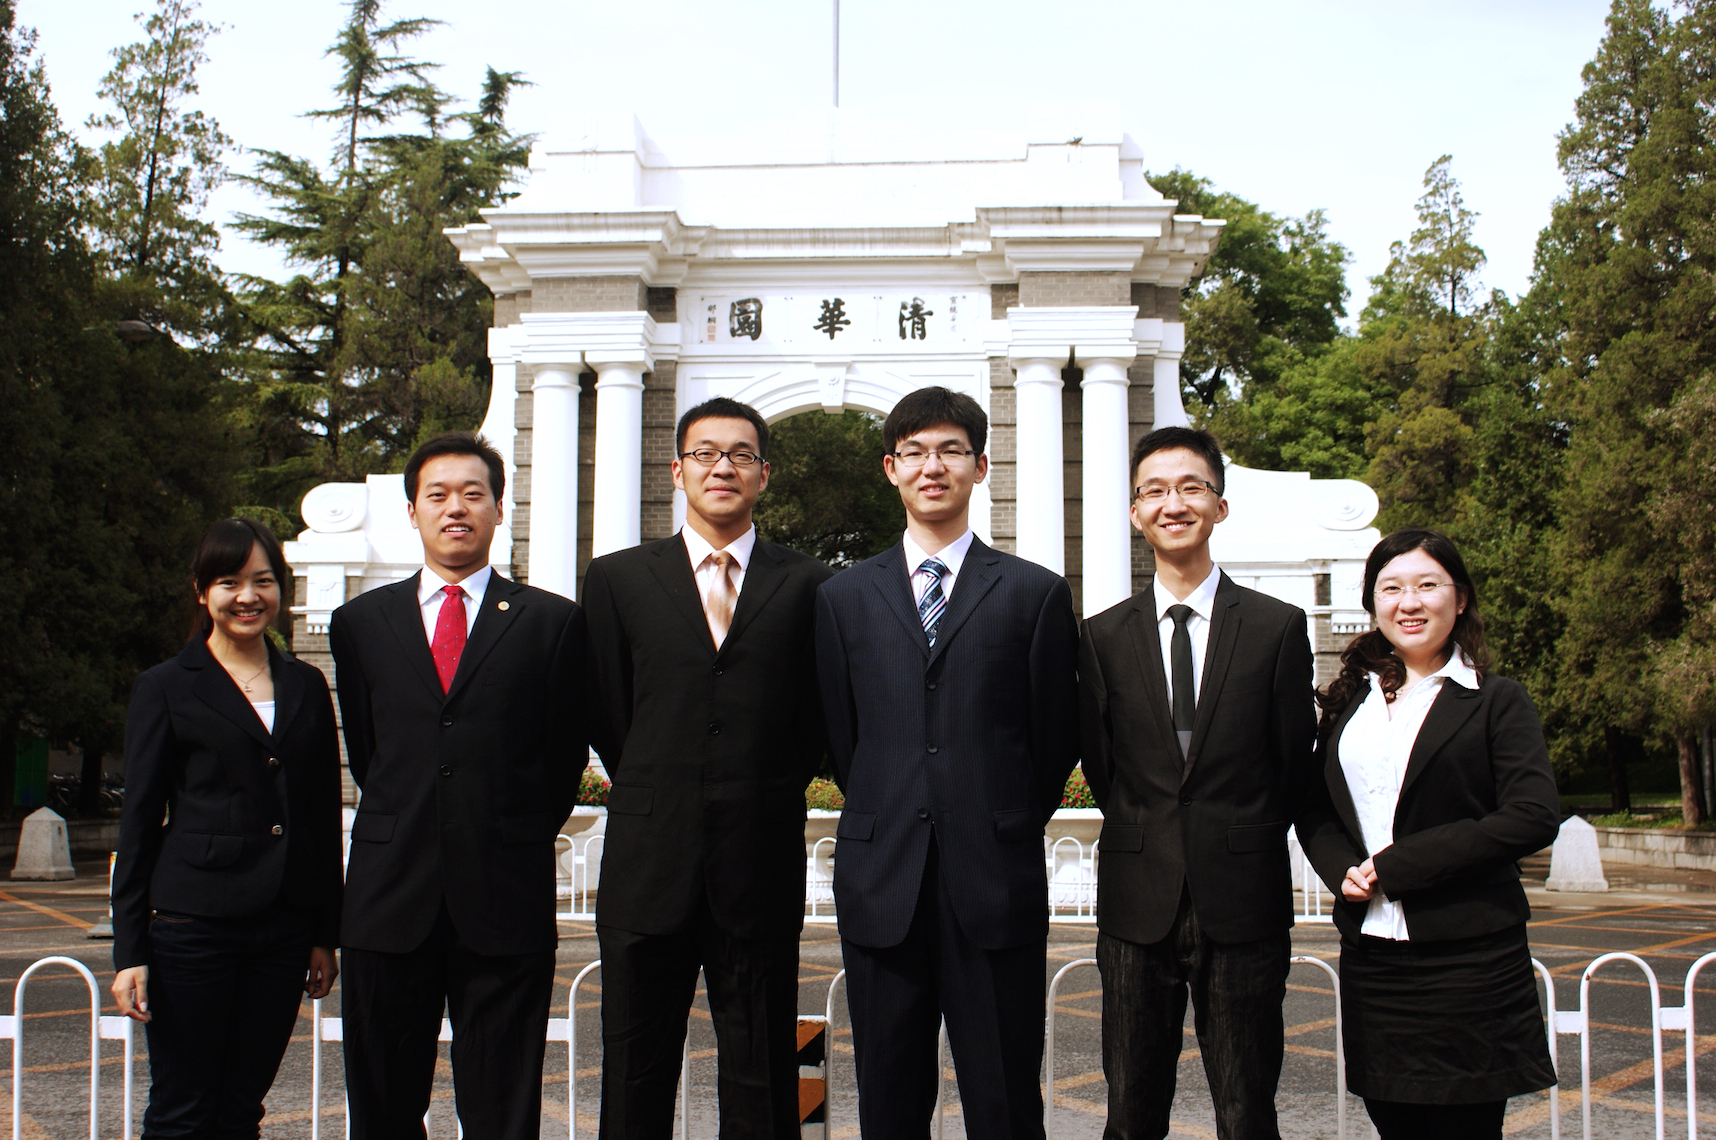
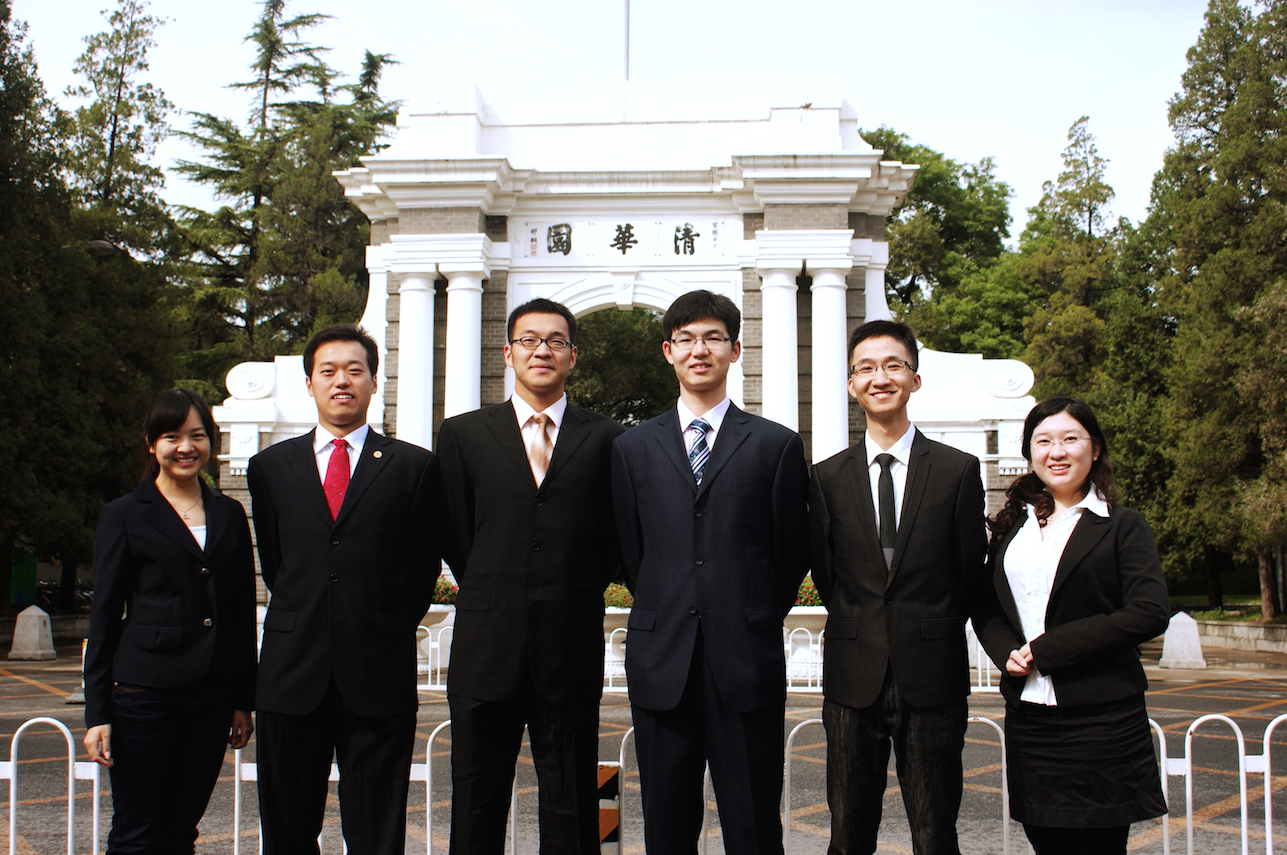
shrink pictures

diff --git a/_includes/szhang_header.html b/_includes/szhang_header.html
@@ -9,6 +9,15 @@
         <link rel="stylesheet" href="/stylesheets/github-markdown.css">
         <link rel="stylesheet" href="/static/minimal/stylesheets/pygment_trac.css">
         <meta name="viewport" content="width=device-width, initial-scale=1, user-scalable=no">
+        {% if page.date == Nil or page.katex or page.math %}
+        <script src="https://cdnjs.cloudflare.com/ajax/libs/jquery/3.0.0-alpha1/jquery.min.js"></script>
+        {% endif %}
+        {% if page.katex or page.math %}
+        <link rel="stylesheet" href="https://cdnjs.cloudflare.com/ajax/libs/KaTeX/0.5.1/katex.min.css">
+        <script src="https://cdnjs.cloudflare.com/ajax/libs/KaTeX/0.5.1/katex.min.js"></script>
+        <script src="https://cdnjs.cloudflare.com/ajax/libs/KaTeX/0.5.1/contrib/auto-render.min.js"></script>
+        </script>
+        {% endif %}
         {% if page.mathjax %}
         <script type="text/x-mathjax-config">
           MathJax.Hub.Config({
@@ -26,6 +35,7 @@
         </script>
         <script type="text/javascript" src="http://cdn.mathjax.org/mathjax/latest/MathJax.js?config=TeX-AMS-MML_HTMLorMML"></script>
         {% endif %}
+        <link href="//maxcdn.bootstrapcdn.com/font-awesome/4.4.0/css/font-awesome.min.css" rel="stylesheet">
         <!--[if lt IE 9]>
         <script src="//html5shiv.googlecode.com/svn/trunk/html5.js"></script>
         <![endif]-->

diff --git a/_includes/szhang_foot.html b/_includes/szhang_foot.html
@@ -15,5 +15,34 @@
 		</script>
 		<noscript>Please enable JavaScript to view the <a href="http://disqus.com/?ref_noscript">comments powered by Disqus.</a></noscript>
     {% endif %}
+        {% if page.katex or page.math %}
+        <script type="text/javascript">
+          /*renderMathInElement(
+              document.body,
+              {
+                  delimiters: [
+                      {left: "$$", right: "$$", display: true},
+                      {left: "\\[", right: "\\]", display: true},
+                      {left: "$", right: "$", display: false},
+                      {left: "\\(", right: "\\)", display: false}
+                  ]
+              }
+          	);*/
+			$("script[type='math/tex']").replaceWith(
+			  function(){
+			    var tex = $(this).text();
+			    return "<span class=\"inline-equation\">" + 
+			           katex.renderToString(tex) +
+			           "</span>";
+			});
+			$("script[type='math/tex; mode=display']").replaceWith(
+			  function(){
+			    var tex = $(this).text();
+			    return "<div class=\"equation\">" + 
+			           katex.renderToString("\\displaystyle "+tex) +
+			           "</div>";
+			});
+        </script>
+        {% endif %}
     </body>
 </html>

diff --git a/index.html b/index.html
@@ -134,7 +134,6 @@ title: Welcome!
 
 <h2><a href="/blog">Blog Updates</a></h2>
 
-<script src="https://cdnjs.cloudflare.com/ajax/libs/jquery/3.0.0-alpha1/jquery.min.js"></script>
 <!--link href="//maxcdn.bootstrapcdn.com/bootstrap/3.3.5/css/bootstrap.min.css" rel="stylesheet">
 <script src="https://maxcdn.bootstrapcdn.com/bootstrap/3.3.5/js/bootstrap.min.js" crossorigin="anonymous"></script-->
 <!--section class="github-widget" data-repo="siangzhang/siangzhang.github.io"></section>

diff --git a/_posts/2015-09-30-Contact.md b/_posts/2015-09-30-Contact.md
@@ -9,8 +9,6 @@ disqus: true
 
 <a href="http://szhang.net"><img src="/static/images/zx.png" height="130px" style="margin-left:80px;"/></a><a href="/static/images/weixin.png"><img src="/static/images/weixin.png" height="130px" style="margin-left:80px;"/></a><a href="/static/images/qq.jpg"><img src="/static/images/qq.jpg" height="130px" style="margin-left:80px;"/></a>
 
-<link href="//maxcdn.bootstrapcdn.com/font-awesome/4.4.0/css/font-awesome.min.css" rel="stylesheet">
-
 {% include wiki/Contact.md %}
 
 <div class="jiathis_style_32x32" style="margin:0 auto">

diff --git a/_posts/2015-09-30-Projects.md b/_posts/2015-09-30-Projects.md
@@ -8,7 +8,7 @@ permalink: /projects
 
 {% for post in site.posts %}
 {% if post.category == 'projects' %}
-<span class="index_date"> {{ post.date | date: "%B, %Y" }}</span>&nbsp;-&nbsp;<a href="{{ post.url }}">{{ post.title }}</a>
+<i class="fa fa-calendar"></i><span class="index_date"> {{ post.date | date: "%B, %Y" }}</span>&nbsp;-&nbsp;<a href="{{ post.url }}">{{ post.title }}</a>
 {% if post.cover %}
 <div class="center">
 <a href="{{ post.url }}"><img src="{{ post.cover }}" width="75%"></a>

diff --git a/_posts/2015-09-30-Groups.md b/_posts/2015-09-30-Groups.md
@@ -8,7 +8,7 @@ permalink: /groups
 
 {% for post in site.posts %}
 {% if post.category == 'groups' %}
-<span class="index_date"> {{ post.date | date: "%B, %Y" }}</span>&nbsp;-&nbsp;<a href="{{ post.url }}">{{ post.title }}</a>
+<i class="fa fa-calendar"></i><span class="index_date"> {{ post.date | date: "%B, %Y" }}</span>&nbsp;-&nbsp;<a href="{{ post.url }}">{{ post.title }}</a>
 {% if post.cover %}
 <div class="center">
 <a href="{{ post.url }}"><img src="{{ post.cover }}" width="75%"></a>

diff --git a/_posts/2007-10-01-mathmu-project.md b/_posts/2007-10-01-mathmu-project.md
@@ -3,7 +3,7 @@ layout: szhang_project
 title: <a href="http://mathmu.github.io" target="_blank">maTHμ Project</a>
 category: projects
 permalink: /projects/mathmu
-cover: /projects/mathmu/logo.jpg
+cover: /projects/mathmu/mathmu.png
 ---
 
 <hr/><video title="software demo" poster="demo.jpg" controls autoplay loop width="100%">

diff --git a/_posts/2015-10-01-Trap-System.md b/_posts/2015-10-01-Trap-System.md
@@ -2,7 +2,7 @@
 layout: szhang_note
 title: Practical Theory for Trapped Ion Experiments
 cover: /notes/2015/10/01/subsystems.png
-mathjax: true
+math: true
 category: notes
 ---
 
